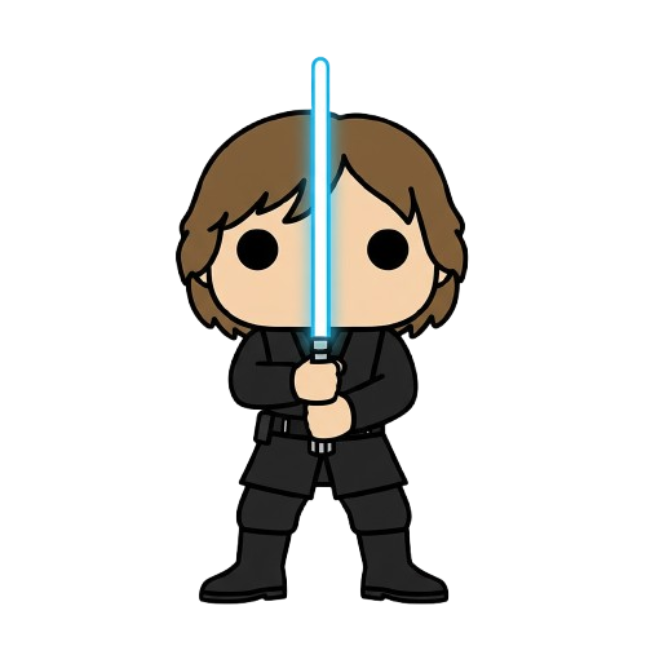
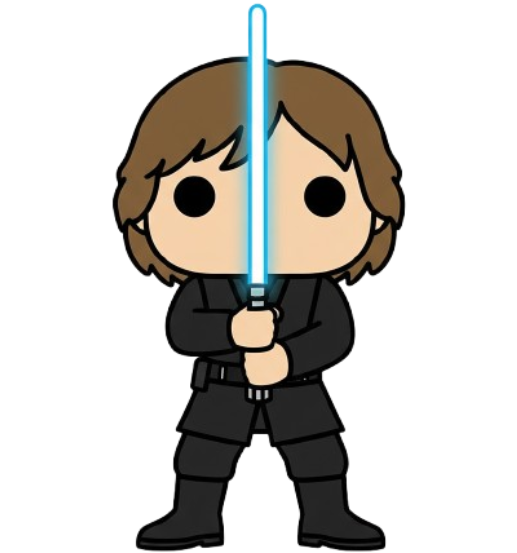
updating the "animation" of the character
im adding a standing character when the sprites stop moving to make it look nicer

Changed region(s): [[0.2166, 0.0, 0.8046, 1.0]]

diff --git a/src/starWars/Sprite.java b/src/starWars/Sprite.java
@@ -8,13 +8,13 @@ public class Sprite extends GraphicsGroup {
     private final double RUN_ACCEL = 0.6;
     private final double RUN_DECEL = 0.5;
     private final double AIR_ACCEL = 0.2;
-    private final double MAX_RUN = 5.0;
+    private final double MAX_RUN = 4.0;
 
     private final double GRAVITY_UP = 0.35;
     private final double GRAVITY_DOWN = 0.575;
     private final double MAX_FALL = 10;
 
-    private final double JUMP_VEL = -8.5;
+    private final double JUMP_VEL = -9;
     private final double COYOTE_TIME = 0.12;
     private final double JUMP_BUFFER = 0.12;
 
@@ -34,16 +34,19 @@ public class Sprite extends GraphicsGroup {
 
     // attributes
     private double width, height;
-    //private Ellipse debug;
+    private double maxHeight;
     private Image forwardChar;
     private Image leftChar;
     private Image rightChar;
+    private Image sLChar;
+    private Image sRChar;
     private int num;
     private String imageName;
 
-    public Sprite(String imageName, double scale, double x, double y, int num) {
+    public Sprite(String imageName, double scale, double x, double y, int num, double maxHeight) {
         this.num = num;
         this.imageName = imageName;
+        this.maxHeight = maxHeight;
 
         setup();
 
@@ -60,12 +63,17 @@ public class Sprite extends GraphicsGroup {
         String path = imageName + "Forward.png";
         String pathL = imageName + "L.png";
         String pathR = imageName + "R.png";
+        String pathSR = imageName + "SR.png";
+        String pathSL = imageName + "SL.png";
 
         leftChar = new Image(pathL);
         rightChar = new Image(pathR);
 
+        sLChar = new Image(pathSL);
+        sRChar = new Image(pathSR);
+
         forwardChar = new Image(path);
-        forwardChar.setMaxHeight(35);
+        forwardChar.setMaxHeight(maxHeight);
         add(forwardChar);
 
         width = forwardChar.getWidth();
@@ -133,6 +141,8 @@ public class Sprite extends GraphicsGroup {
         jumpReleased = false;
 
         resolveVertical(elements, vy);
+
+        checkBoundaries(canvas);
     }
 
     /**
@@ -215,16 +225,46 @@ public class Sprite extends GraphicsGroup {
      */
     public void stopMoving(String key) {
         if (this.num == 2){   
-            if (key.equals("LEFT_ARROW") || key.equals("A")) movingLeft = false;
-            if (key.equals("RIGHT_ARROW") || key.equals("D")) movingRight = false;
+            if (key.equals("LEFT_ARROW")){
+                    removeAll();
+                    movingLeft = false;
 
+                    sLChar.setMaxHeight(35);
+                    width = sLChar.getWidth();
+                    height = sLChar.getHeight();
+                    add(sLChar);
+            }
+            if (key.equals("RIGHT_ARROW")){
+                    removeAll();
+                    movingRight = false;
+
+                    sRChar.setMaxHeight(35);
+                    width = sRChar.getWidth();
+                    height = sRChar.getHeight();
+                    add(sRChar);
+            }
             if (key.equals("UP_ARROW") || key.equals("W")) {
                 jumpReleased = true;
             }
         } else {
-            if (key.equals("A")) movingLeft = false;
-            if (key.equals("D")) movingRight = false;
+            if (key.equals("A")){
+                    removeAll();
+                    movingLeft = false;
 
+                    sLChar.setMaxHeight(35);
+                    width = sLChar.getWidth();
+                    height = sLChar.getHeight();
+                    add(sLChar);
+            }
+            if (key.equals("D")){
+                    removeAll();
+                    movingRight = false;
+
+                    sRChar.setMaxHeight(35);
+                    width = sRChar.getWidth();
+                    height = sRChar.getHeight();
+                    add(sRChar);
+            }
             if (key.equals("W")) {
                 jumpReleased = true;
             }
@@ -297,6 +337,45 @@ public class Sprite extends GraphicsGroup {
 
         moveBy(0, dy);
     }
+
+    /**
+     * Returns left x of sprite
+     */
+    private void checkBoundaries(CanvasWindow canvas){
+        double left = getLeft();
+        double right = getRight();
+        double top = getTop();
+        double bottom = getBottom();
+
+        double winW = canvas.getWidth();
+        double winH = canvas.getHeight();
+
+        // left wall
+        if (left < 0) {
+            setCenter(width / 2, getCenter().getY());
+            vx = 0;
+        }
+
+        // right wall
+        if (right > winW) {
+            setCenter(winW - width / 2, getCenter().getY());
+            vx = 0;
+        }
+
+        // top wall
+        if (top < 0) {
+            setCenter(getCenter().getX(), height / 2);
+            vy = 0;
+        }
+
+        // bottom wall
+        if (bottom > winH) {
+            setCenter(getCenter().getX(), winH - height / 2);
+            vy = 0;
+            onGround = true;
+        }
+    }
+
 
     /**
      * Returns left x of sprite

diff --git a/src/starWars/Sketch.java b/src/starWars/Sketch.java
@@ -20,6 +20,8 @@ public class Sketch {
     public CanvasWindow canvas;
     public static double startY = 710;
     private static ArrayList<Element> elements = new ArrayList<>();
+    public double p1MaxHeight;
+    public double p2MaxHeight;
 
     public Sketch(String p1Path, String p2Path){
         canvas = new CanvasWindow("Star Wars — Level 1", 780, 780);
@@ -52,9 +54,11 @@ public class Sketch {
 
 
         // adding sprite
-        p1 = new Sprite (p1Path, .08, 30, 700, 1);
+        p1MaxHeight = getMaxHeight();
+        p1 = new Sprite (p1Path, .08, 30, 700, 1, p1MaxHeight);
         canvas.add(p1);
-        p2 = new Sprite (p2Path, .08, 750, 700, 2);
+        p1MaxHeight = getMaxHeight();
+        p2 = new Sprite (p2Path, .08, 750, 700, 2, p2MaxHeight);
         canvas.add(p2);
 
         setupKeys();
@@ -182,5 +186,23 @@ public class Sketch {
             Element image = new Element("poison.png", "7", 1.5, 19);
             return image;
         }
+    }
+
+    public double getMaxHeight(){
+        double maxHeight = 0;
+        if (p1Path.equals("leia")){
+            maxHeight = 35;
+        } else if (p1Path.equals("luke")){
+            maxHeight = 35;
+        } else if (p1Path.equals("chewy")){
+            maxHeight = 35;
+        } else if (p1Path.equals("han")){
+            maxHeight = 35;
+        } else if (p1Path.equals("c3po")){
+            maxHeight = 35;
+        } else {
+            maxHeight = 35;
+        } 
+        return maxHeight;
     }
 }

diff --git a/src/starWars/CharacterScreen.java b/src/starWars/CharacterScreen.java
@@ -227,4 +227,18 @@ public class CharacterScreen {
             }
         });
     }
+
+    // private void updatePaths() {
+    //     if (index == 0){
+    //         Sketch.p1Path = "leia";
+    //         Sketch.p2Path = "luke";
+    //     } else if (index == 1){
+    //         Sketch.p1Path = "chewy";
+    //         Sketch.p2Path = "han";
+    //     } else {
+    //         Sketch.p1Path = "c3po";
+    //         Sketch.p2Path = "r2d2";
+    //     }
+    //     System.out.println("UPDATED: " + Sketch.p1Path + "   " + Sketch.p2Path);
+    // }
 }

diff --git a/src/starWars/StartScreen.java b/src/starWars/StartScreen.java
@@ -1,7 +1,6 @@
 package starWars;
 
 import edu.macalester.graphics.*;
-import edu.macalester.graphics.ui.Button;
 
 import java.awt.Color;
 
